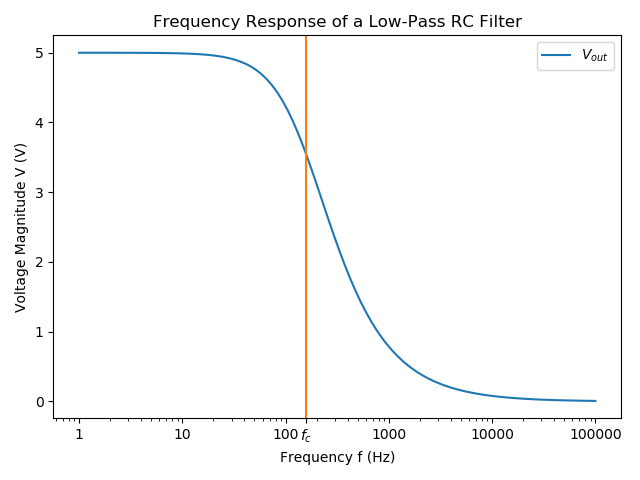
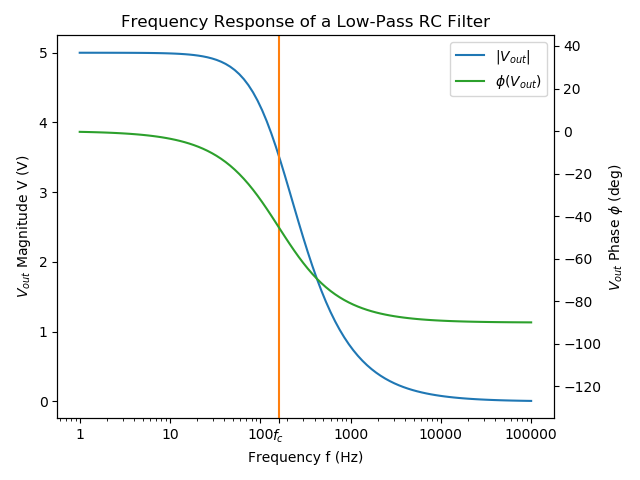
Added phase information for low-pass RC filter frequency response plot. Renamed PWM page to Pulse Width Modulation (PWM). Added missing August 2018 Updates page.

diff --git a/content/electronics/circuit-design/filters/passive-filters/main.py b/content/electronics/circuit-design/filters/passive-filters/main.py
@@ -21,9 +21,13 @@ def create_freq_response_plot():
     # Vout = Vin * (Xc / ( sqrt(Xc^2 + R^2) ))
     v_out_data = V_IN_VOLTS*(x_c_data/np.sqrt(x_c_data**2 + RESISTANCE_OHMS**2))
 
+    phase_shift_deg = np.rad2deg(-1*np.arctan(2*np.pi*freq_data*RESISTANCE_OHMS*CAPACITANCE_FARADS))
+
     fig, ax = plt.subplots(1)
 
-    ax.plot(freq_data, v_out_data, label='$V_{out}$')
+    line1, = ax.plot(freq_data, v_out_data, label='$|V_{out}|$')
+    ax2 = ax.twinx()
+    line2, = ax2.plot(freq_data, phase_shift_deg, label='$\phi(V_{out})$', color='C2')
 
     f_cutoff = 1 / (2*np.pi*RESISTANCE_OHMS*CAPACITANCE_FARADS)
     ax.axvline(x=f_cutoff, color='C1')
@@ -39,9 +43,15 @@ def create_freq_response_plot():
     ax.set_xticks(x_ticks)
     ax.set_xticklabels(x_ticks_labels)
     ax.set
-    ax.set_ylabel('Voltage Magnitude V (V)')
+    ax.set_ylabel('$V_{out}$ Magnitude V (V)')
+
+    ax2.set_ylabel('$V_{out}$ Phase $\phi$ (deg)')
+    ax2.set_ylim(-135, 45)
+
     ax.set_title('Frequency Response of a Low-Pass RC Filter')
-    ax.legend()
+
+    lines = [ line1, line2 ]
+    ax.legend(lines, [line.get_label() for line in lines ])
 
     plt.tight_layout()
     plt.savefig('rc-low-pass-filter-frequency-response.png')

diff --git a/content/electronics/circuit-design/filters/passive-filters/index.md b/content/electronics/circuit-design/filters/passive-filters/index.md
@@ -1,12 +1,13 @@
 ---
-author: gbmhunter
+author: "gbmhunter"
 categories: [ "Electronics", "Circuit Design" ]
 date: 2013-01-03
+description: "A tutorial on passive electronic filters, including low-pass/high-pass RC, LC and RLC filters."
 draft: false
 lastmod: 2019-06-12
-tags: [ "electronics", "circuit design", "filters", "passive filters", "RC", "low-pass", "high-pass", "LC" ]
-title: Passive Filters
-type: page
+tags: [ "electronics", "circuit design", "filters", "passive filters", "RC", "low-pass", "high-pass", "LC", "bode plot", "frequency response" ]
+title: "Passive Filters"
+type: "page"
 ---
 
 ## Overview
@@ -47,23 +48,9 @@ Typically, a resistance between `\(1k\Omega\)` and `\(100k\Omega\)` is used. The
 
 ### Frequency Response
 
-The cut-off frequency (also called the _break frequency_ or _turnover frequency_[^wikipedia-low-pass-filter]), `\(f_c\)` is not the frequency at which all higher frequencies are stopped (remember, this is an ideal filter, but in real-life they always let through some fraction of the higher-frequencies). Instead, it is the frequency at where:
-
-<p>$$ V_{out} = \frac{1}{\sqrt{2}} V_{in} = 0.707*V_{in} $$</p>
-
-A low-pass RC has a frequency roll-off of 20dB/decade. This can be seen in the following plot, which shows the frequency response (both magnitude and phase) of a low-pass RC filter with values of `\(R = 1k\Omega\)` and `\(C = 1\mu F\)`, which gives a cut-off frequency of `\(f_c = 159Hz\)`.
+The following plot shows the frequency response (also known as a _bode plot_) of a low-pass filter, with values `\(R = 1k\Omega\)` and `\(C = 1\mu F\)`. Magnitude is plotted in blue and phase in green.
 
 {{% img src="rc-low-pass-filter-frequency-response.png" width="700px" caption="The frequency response (magnitude and phase) of a low-pass RC filter." %}}
-
-Low-pass RC filters are typically used for applications up to 100kHz, above 100kHz RLC filters are used[^elec-tutorial-filters].
-
-### Time Constant
-
-The time constant `\(\tau\)` of a low-pass RC filter is[^wikipedia-low-pass-filter]:
-
-<p>$$ \tau = RC $$</p>
-
-### Resistor Divider Analysis
 
 The magnitude of the RC output voltage `\(V_{out}\)` when in the input is a sine wave at frequency `\(f\)` and magnitude `\(V_{in}\)` is given by:
 
@@ -80,7 +67,23 @@ Remember that the impedance of a capacitor is:
 
 <p>$$ X_c = \frac{1}{2\pi fC} $$</p>
 
-This allows you to determine the magnitude of the output voltage for any input voltage and frequency, which allows you to create the frequency response plots as shown in the [Frequency Response](#frequency-response) section.
+The low-pass RC filter also effects the phase of the signal. The higher the frequency, the greater the lag.
+
+<p>$$ \phi = -\arctan{(2\pi fRC)} $$</p>
+
+The cut-off frequency (also called the _break frequency_ or _turnover frequency_[^wikipedia-low-pass-filter]), `\(f_c\)` is not the frequency at which all higher frequencies are stopped (remember, this is an ideal filter, but in real-life they always let through some fraction of the higher-frequencies). Instead, it is the frequency at where:
+
+<p>$$ V_{out} = \frac{1}{\sqrt{2}} V_{in} = 0.707*V_{in} $$</p>
+
+The choice of resistor and capacitor above gives a cut-off frequency of `\(f_c = 159Hz\)`.
+
+Low-pass RC filters are typically used for applications up to 100kHz, above 100kHz RLC filters are used[^elec-tutorial-filters].
+
+### Time Constant
+
+The time constant `\(\tau\)` of a low-pass RC filter is[^wikipedia-low-pass-filter]:
+
+<p>$$ \tau = RC $$</p>
 
 ### Typical Uses
 
@@ -92,7 +95,7 @@ The low-pass RC filter can be used to provide filtering on analogue inputs to a 
 
 Another way to reduce the reduction in noise immunity due to the resistor in the RC low-pass filter is **to make the capacitor as large as practically possible** (for a particular cut-off frequency). Both the resistance and the capacitance influence the cut-off frequency. If you increase the capacitance by 10x, and reduce the resistance by 10x, you get the same cut-off frequency, but far better noise immunity since the source impedance is not altered as much.
 
-**Another consideration is the effect of the increase in source impedance (due to the resistor in the RC filter) when connecting the output to something like a [microcontroller ADC](/electronics/circuit-design/adcs).** The input impedance of an non-buffered ADC pin on a microcontroller is usually somewhere between `\(20-500k\Omega\)` (note that this is usually variable, and can change with sampling rate). This will form a resistor divider with the RC filter resistance, increasing the ADC measurement error. As a general rule, **you want the RC filter resistance to be much lower than the ADC input impedance**.
+**Another consideration is the effect of the increase in source impedance (due to the resistor in the RC filter) when connecting the output to something like a {{% link text="microcontroller ADC" src="/electronics/circuit-design/adcs" %}}).** The input impedance of an non-buffered ADC pin on a microcontroller is usually somewhere between `\(20-500k\Omega\)` (note that this is usually variable, and can change with sampling rate). This will form a resistor divider with the RC filter resistance, increasing the ADC measurement error. As a general rule, **you want the RC filter resistance to be much lower than the ADC input impedance**.
 
 <p>$$ R_{RC filter} << R_{ADC} $$</p>
 
@@ -122,7 +125,7 @@ This form of the equation can be useful to calculate the delay (aka the time `\(
 
 ## Building A VDAC From An ADC And Low-pass RC Filter
 
-**Low-pass RC filters can also be used to create a VDAC (voltage-based digital-to-analogue converter) from a [PWM signal](/electronics/circuit-design/pwm).** This is useful since many microcontrollers have one (or more) PWM peripherals, but rarely a built-in VDAC. A simple RC filter placed on the output pin of the PWM signal can convert it into a VDAC, in where the **duty cycle** determines the analogue voltage output.
+**Low-pass RC filters can also be used to create a VDAC (voltage-based digital-to-analogue converter) from a {{% link text="PWM signal" src="/electronics/circuit-design/pulse-width-modulation-pwm" %}}.** This is useful since many microcontrollers have one (or more) PWM peripherals, but rarely a built-in VDAC. A simple RC filter placed on the output pin of the PWM signal can convert it into a VDAC, in where the **duty cycle** determines the analogue voltage output.
 
 ## Low-Pass LC Filter
 

diff --git a/content/electronics/circuit-design/pulse-width-modulation-pwm/index.md b/content/electronics/circuit-design/pulse-width-modulation-pwm/index.md
@@ -1,21 +1,24 @@
 ---
+aliases: [ "pwm" ]
 author: "gbmhunter"
 categories: [ "Electronics", "Circuit Design" ]
 date: 2012-10-04
 draft: false
-title: "PWM"
-type: page
+lastmod: 2012-10-04
+tags: [ "electronics", "circuit design", "pulse width modulation", "PWM" ]
+title: "Pulse Width Modulation (PWM)"
+type: "page"
 ---
 
 ## Operating Modes
 
 PWM hardware peripherals may not support every one these modes.
 
-## Edge-Aligned (aka Asymmetric)
+### Edge-Aligned (aka Asymmetric)
 
 **Edge-aligned, the most common (and usually the default) operating mode for a PWM peripheral, is when one edge of the switching from on/off is aligned with the edge of of the PWM period.** In it's most basic form it is simple to implement, requiring a counter, and two registers, one for resetting the counter (which determines the PWM period), and another for comparing with the count value, and switching the output if it's greater than/less than/some logical expression (this sets the duty cycle).
 
-## Centre-Aligned (aka Symmetric)
+### Centre-Aligned (aka Symmetric)
 
 Centre-aligned PWM is good for motor control as it generates fewer harmonics in the output voltage and current than asymmetric PWM. Some centre-aligned PWM hardware peripherals implement this by using a counter which changes direction every cycle. It counts up for the first cycle, down for the second, and then repeats. Doing this **effectively reduces the PWM frequency by 2**. So to arrive back at the same PWM frequency as when in asymmetric mode, you have to half the period (in terms of clock cycles). This reduces your duty cycle resolution.
 

diff --git a/content/posts/2019/06-30-june-2019-updates/index.md b/content/posts/2019/06-30-june-2019-updates/index.md
@@ -18,7 +18,7 @@ type: "post"
 
     {{% figure src="/programming/signal-processing/fourier-transforms/1d-fourier-transform.png" %}}
 
-    and animated .gif's of 2D Fourier transformations:
+    and animated .gifs of 2D Fourier transformations:
 
     {{% figure src="/programming/signal-processing/fourier-transforms/sinusoidal.gif" %}}
 
@@ -35,3 +35,5 @@ type: "post"
 * Updated the {{% link text="Passive Filters page" src="/electronics/circuit-design/filters/passive-filters" %}} with more information on low-pass RC filters, including plots of the frequency response:
 
     {{% figure src="/electronics/circuit-design/filters/passive-filters/rc-low-pass-filter-frequency-response.png" width="500px" %}}
+
+* I created a public mbedded.ninja project on CircuitMaker at [https://workspace.circuitmaker.com/Projects/Details/GeoffreyHunter/mbedded-ninja](https://workspace.circuitmaker.com/Projects/Details/GeoffreyHunter/mbedded-ninja). I am going to trial out CircuitMaker as a tool for drawing schematic diagrams for this blog. In the past I have used Altium (not free), MultisimLive and InkScape (free but is a general vector graphics editor, not a dedicated electronics CAD program).

diff --git a/content/posts/2018/06-10-august-2018-updates/index.md b/content/posts/2018/06-10-august-2018-updates/index.md
@@ -1,0 +1,16 @@
+---
+author: "gbmhunter"
+categories: [ "Updates" ]
+date: 2018-08-31
+draft: false
+lastmod: 2018-08-31
+tags: [ "updates" ]
+title: "August 2018 Updates"
+type: "post"
+---
+
+* New {{% link text="Python Type Annotations page" src="/programming/languages/python/python-type-annotations" %}}.
+
+* New {{% link text="Statistics section" src="/mathematics/statistics" %}} under Mathematics.
+
+* Updates to the {{% link text="The Basic Essentials You Should Do After Installing Ubuntu page" src="/programming/operating-systems/linux/the-basic-essentials-you-should-do-after-installing-ubuntu" %}}.

diff --git a/content/posts/2018/05-10-pid-tuner-tool-released-in-ninjacalc/index.md b/content/posts/2018/05-10-pid-tuner-tool-released-in-ninjacalc/index.md
@@ -1,9 +1,9 @@
 ---
-author: gbmhunter
+author: "gbmhunter"
 date: 2018-05-10
 draft: false
-title: PID Tuner Tool Released In NinjaCalc
-type: post
+title: "PID Tuner Tool Released In NinjaCalc"
+type: "post"
 categories:
 - NinjaCalc
 tags:

diff --git a/content/mathematics/statistics/_index.md b/content/mathematics/statistics/_index.md
@@ -1,8 +1,9 @@
 ---
 author: gbmhunter
-categories: [ "Mathematics" ]
-date: 2018-08-30 22:54:11+00:00
+categories: [ "Mathematics", "Statistics" ]
+date: 2018-08-30
 draft: false
+lastmod: 2018-08-30
 title: Statistics
 type: page
 ---
